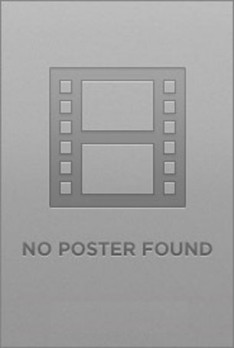
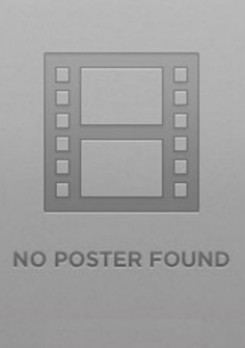
correct default poster

diff --git a/front/admin-page/src/CSS/styles.css b/front/admin-page/src/CSS/styles.css
@@ -792,7 +792,7 @@ textarea.conf-step__input {
     height: 340px;
     width: 255px;
     margin-right: 25px;
-    background-size: 246px 348px;
+    background-size: 100%;
     background-repeat: no-repeat;
 }
 
